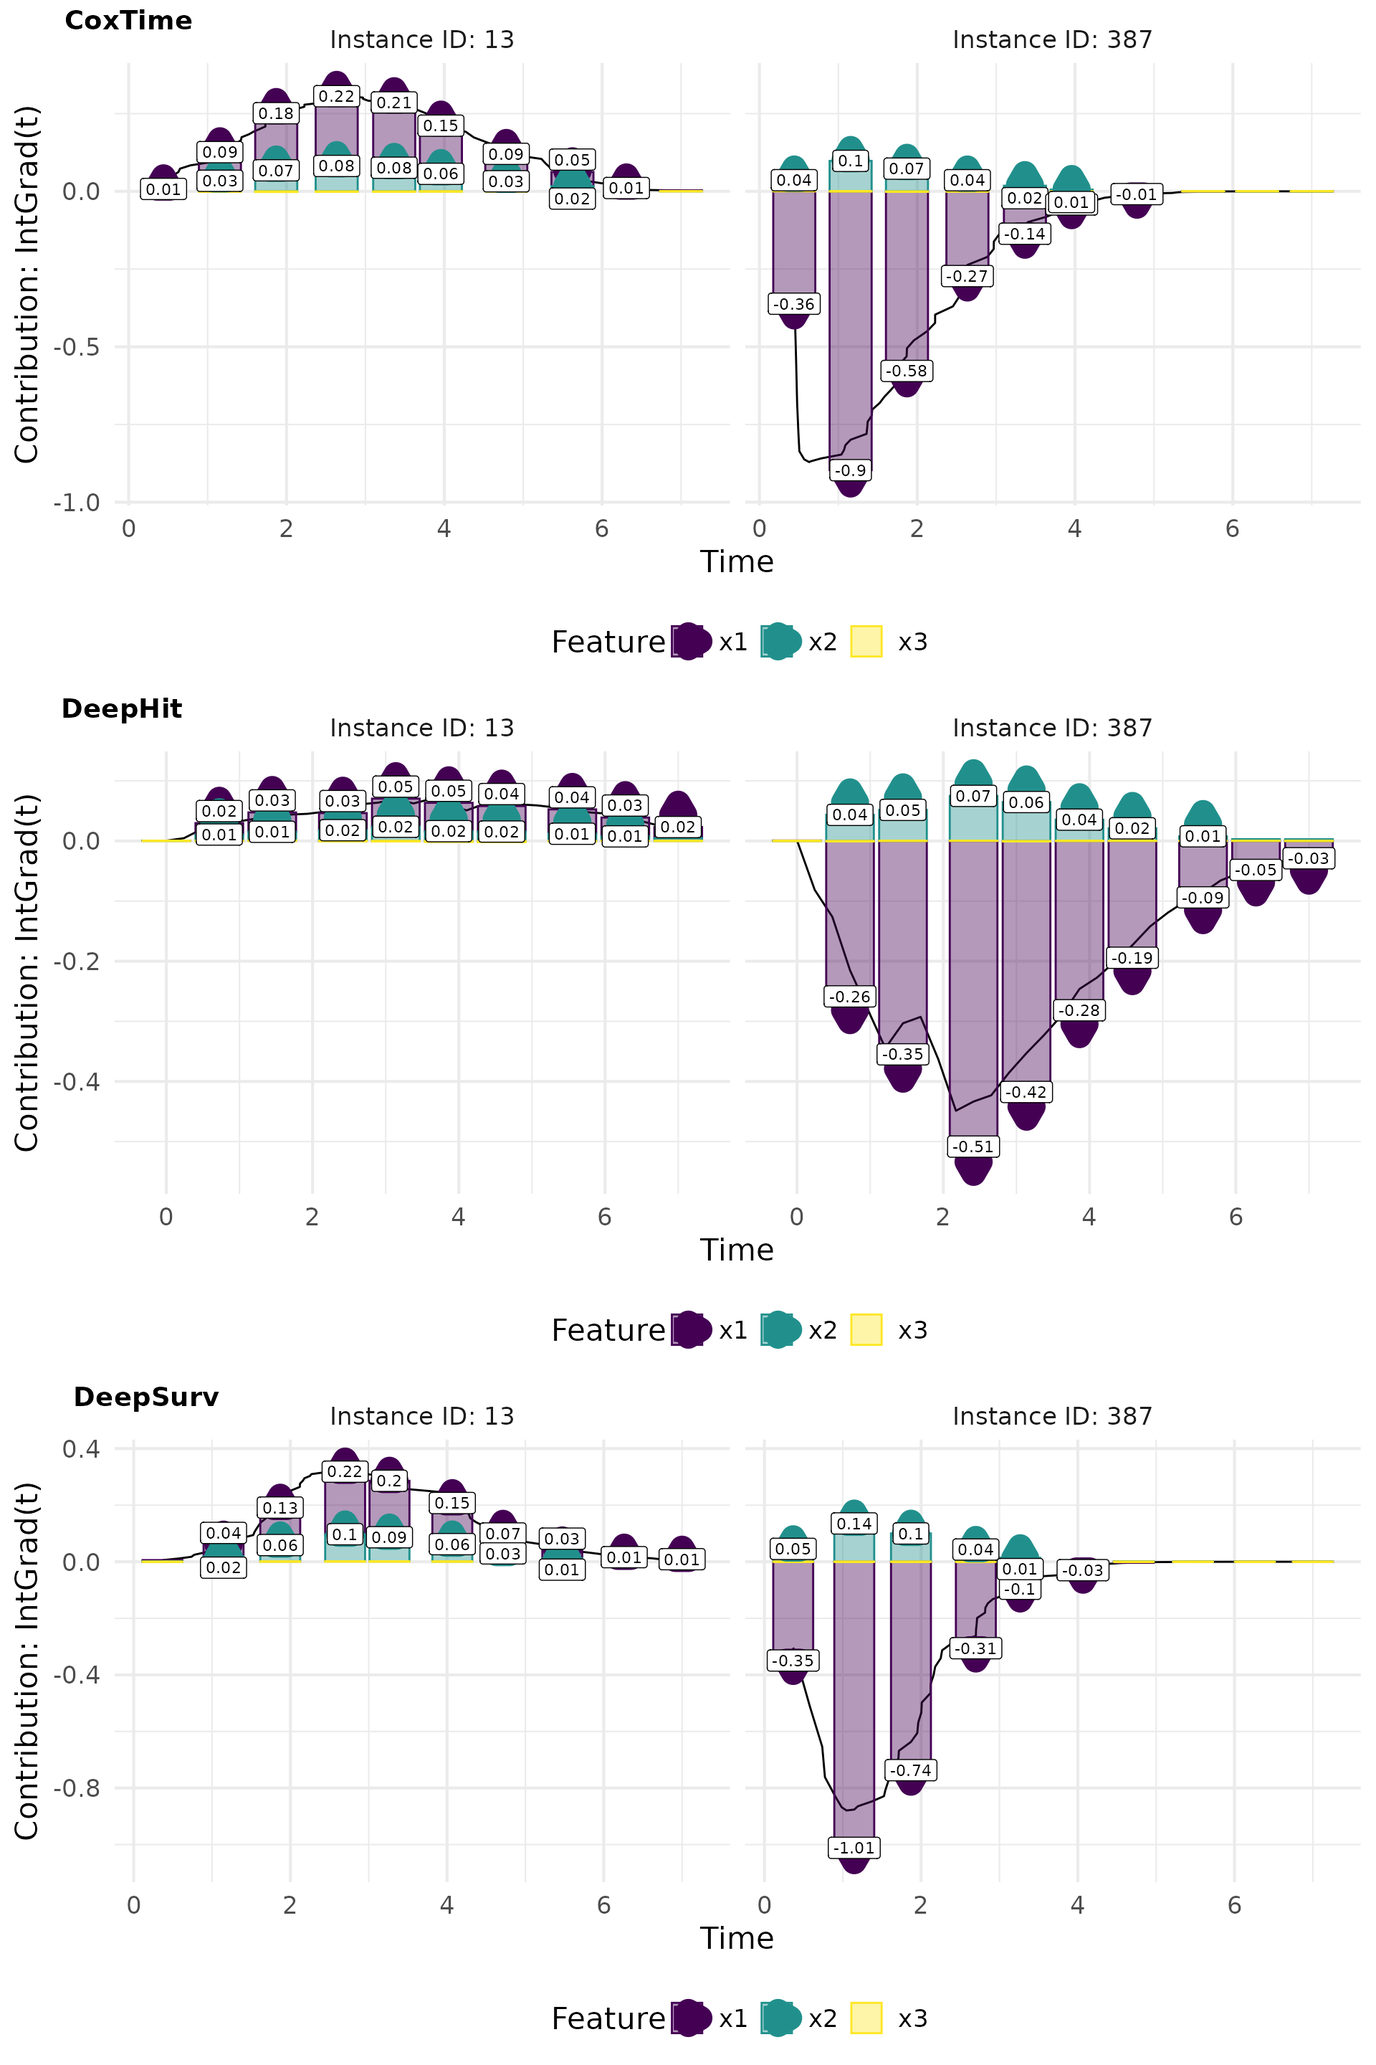
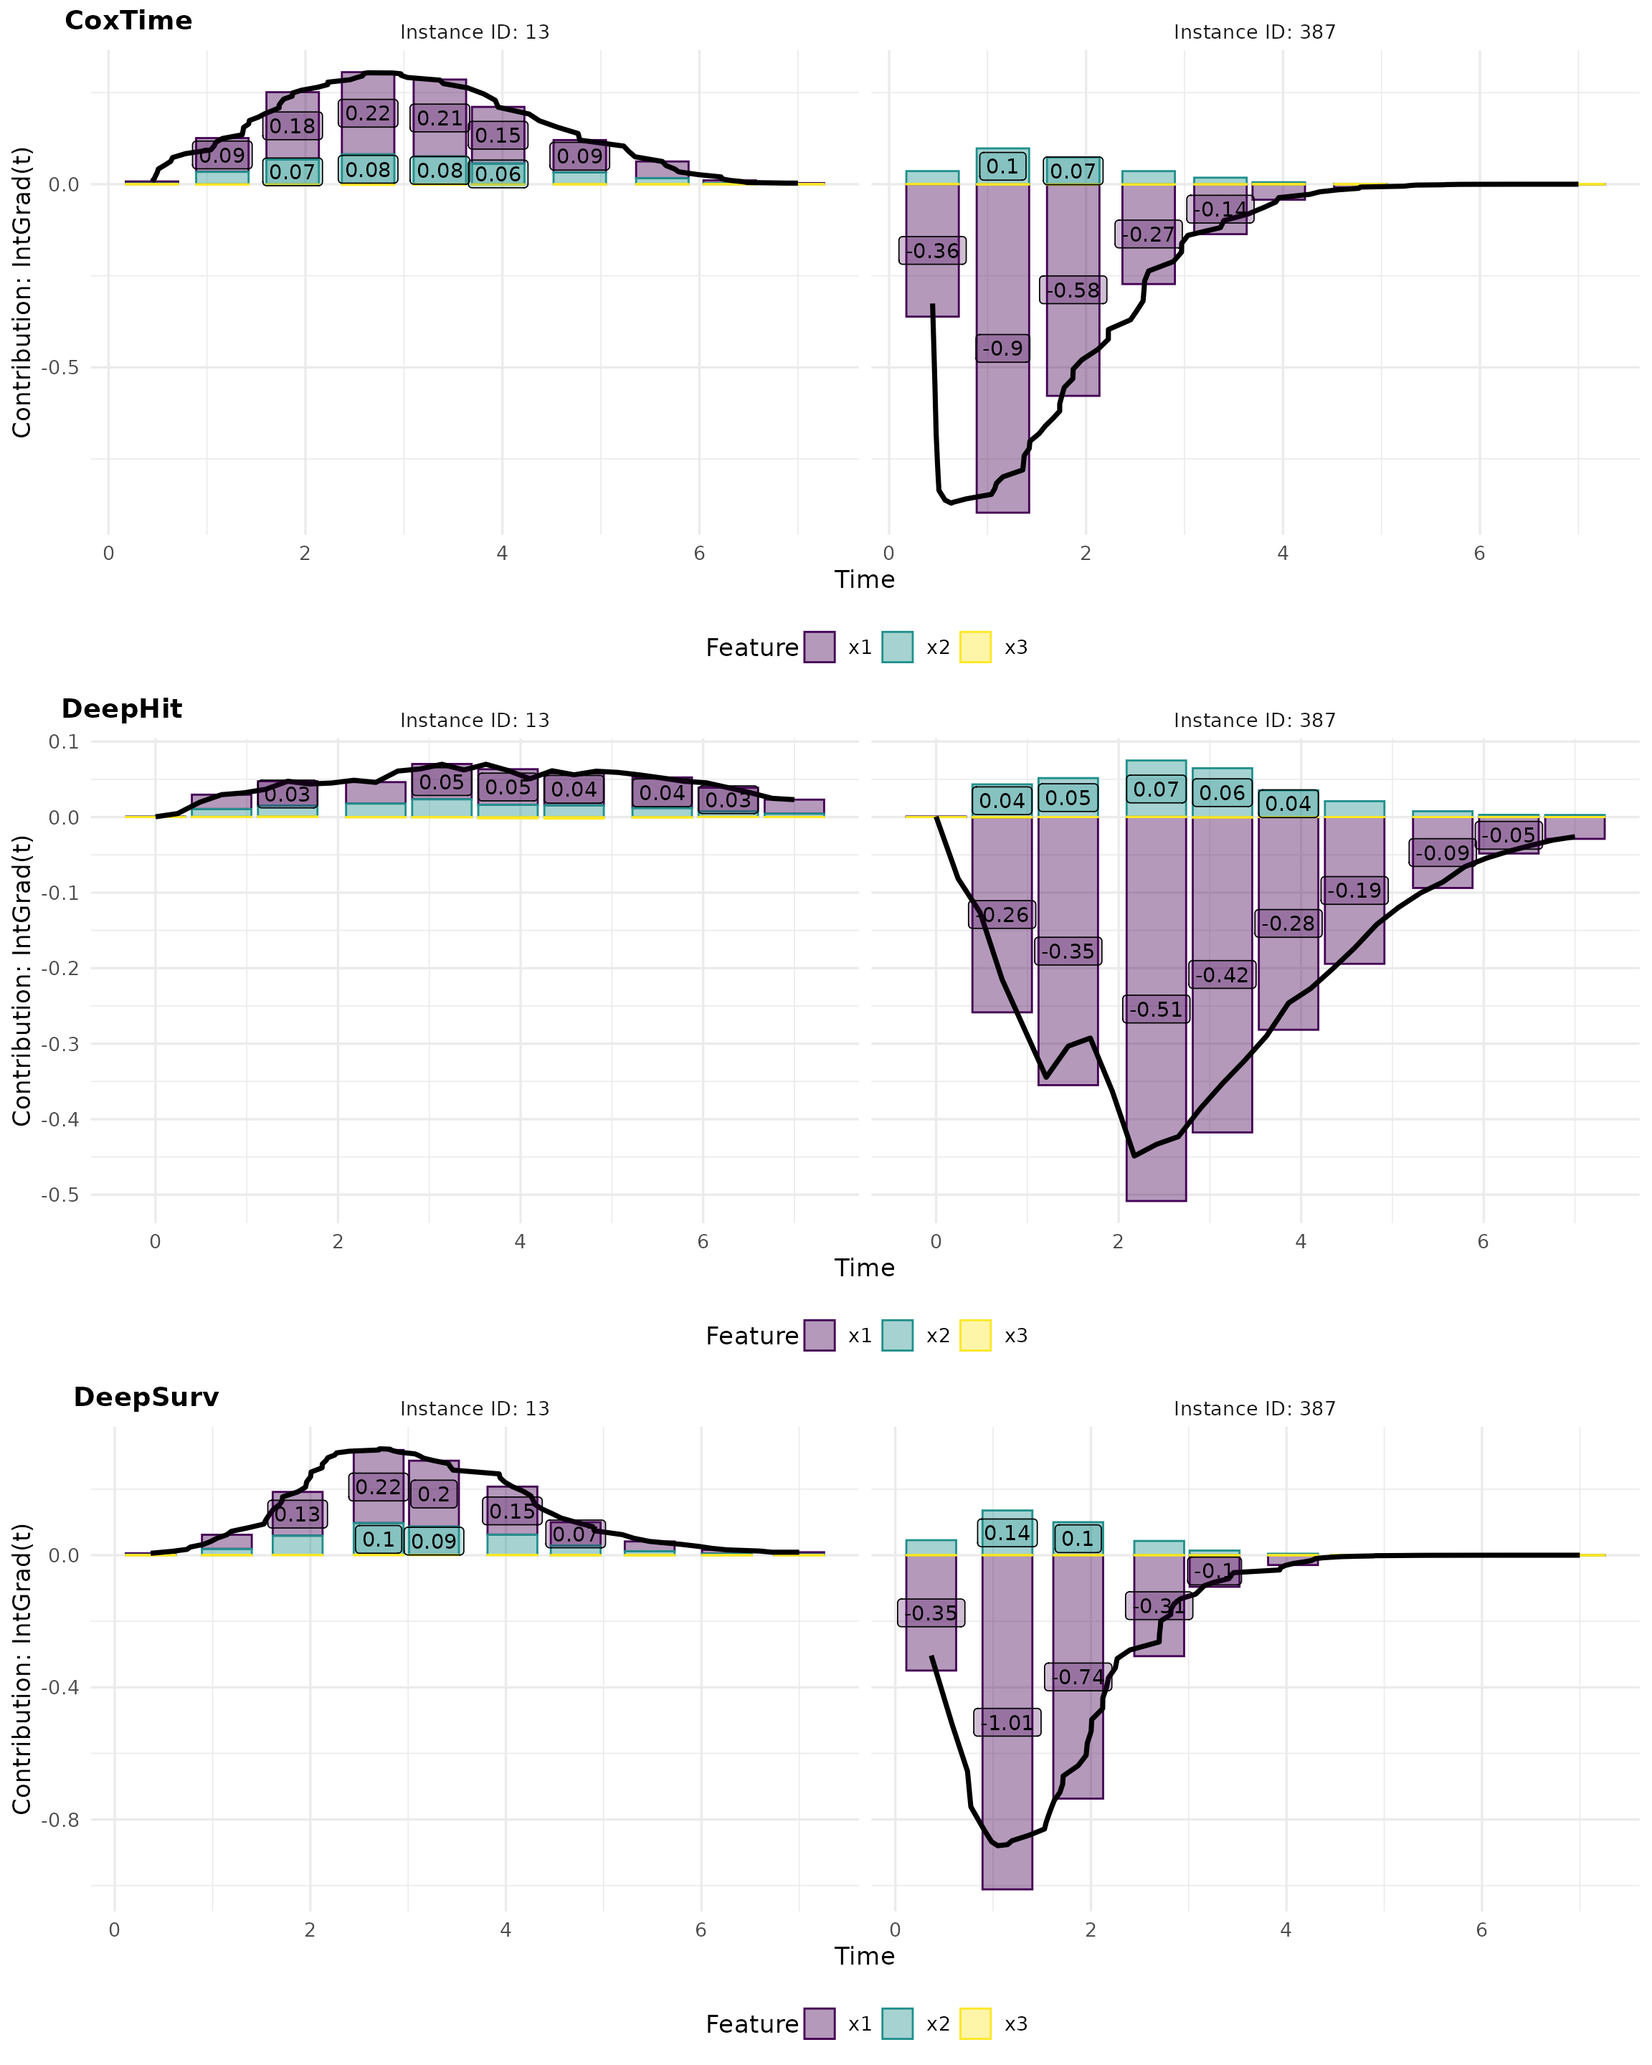
Deploying to gh-pages from @ bips-hb/Survinng@87acbd6456c3aeec614d8811c0f04a3fbe51c15c 🚀

diff --git a/articles/Sim_time_dependent.html b/articles/Sim_time_dependent.html
@@ -378,9 +378,9 @@ survival times.</p>
 <div class="sourceCode" id="cb11"><pre class="downlit sourceCode r">
 <code class="sourceCode R"><span><span class="co"># Plot force</span></span>
 <span><span class="va">intgrad0_plot_force</span> <span class="op">&lt;-</span> <span class="fu">cowplot</span><span class="fu">::</span><span class="fu"><a href="https://wilkelab.org/cowplot/reference/plot_grid.html" class="external-link">plot_grid</a></span><span class="op">(</span></span>
-<span>  <span class="fu"><a href="../reference/plot.surv_result.html">plot_force</a></span><span class="op">(</span><span class="va">ig0_cox</span>, zero_feature <span class="op">=</span> <span class="st">"x4"</span>, upper_distance <span class="op">=</span> <span class="fl">0</span>, lower_distance <span class="op">=</span> <span class="fl">0</span>, lower_distance_x1 <span class="op">=</span> <span class="fl">0.05</span>, intgrad0_td_cox <span class="op">=</span> <span class="cn">TRUE</span>, label <span class="op">=</span> <span class="st">"IntGrad(t)"</span><span class="op">)</span>, </span>
-<span>  <span class="fu"><a href="../reference/plot.surv_result.html">plot_force</a></span><span class="op">(</span><span class="va">ig0_deephit</span>, zero_feature <span class="op">=</span> <span class="st">"x4"</span>, upper_distance <span class="op">=</span> <span class="fl">0</span>, lower_distance <span class="op">=</span> <span class="fl">0</span>, lower_distance_x1 <span class="op">=</span> <span class="fl">0.02</span>, label <span class="op">=</span> <span class="st">"IntGrad(t)"</span><span class="op">)</span>,  </span>
-<span>  <span class="fu"><a href="../reference/plot.surv_result.html">plot_force</a></span><span class="op">(</span><span class="va">ig0_deepsurv</span>, zero_feature <span class="op">=</span> <span class="st">"x4"</span>, upper_distance <span class="op">=</span> <span class="fl">0</span>, lower_distance <span class="op">=</span> <span class="fl">0</span>, intgrad0_td_deepsurv <span class="op">=</span> <span class="cn">TRUE</span>, label <span class="op">=</span> <span class="st">"IntGrad(t)"</span><span class="op">)</span>, </span>
+<span>  <span class="fu"><a href="https://rdrr.io/r/graphics/plot.default.html" class="external-link">plot</a></span><span class="op">(</span><span class="va">ig0_cox</span>, type <span class="op">=</span> <span class="st">"force"</span><span class="op">)</span>,</span>
+<span>  <span class="fu"><a href="https://rdrr.io/r/graphics/plot.default.html" class="external-link">plot</a></span><span class="op">(</span><span class="va">ig0_deephit</span>, type <span class="op">=</span> <span class="st">"force"</span><span class="op">)</span>,</span>
+<span>  <span class="fu"><a href="https://rdrr.io/r/graphics/plot.default.html" class="external-link">plot</a></span><span class="op">(</span><span class="va">ig0_deepsurv</span>, type <span class="op">=</span> <span class="st">"force"</span><span class="op">)</span>,</span>
 <span>  nrow <span class="op">=</span> <span class="fl">3</span>, labels <span class="op">=</span> <span class="fu"><a href="https://rdrr.io/r/base/c.html" class="external-link">c</a></span><span class="op">(</span><span class="st">"CoxTime"</span>, <span class="st">"DeepHit"</span>, <span class="st">"DeepSurv"</span><span class="op">)</span><span class="op">)</span></span>
 <span><span class="va">intgrad0_plot_force</span></span></code></pre></div>
 <p><img src="Sim_time_dependent_files/figure-html/td%20intgrad0%20force-1.png" width="100%" style="display: block; margin: auto;"></p>
@@ -428,9 +428,9 @@ effects.</p>
 <div class="sourceCode" id="cb15"><pre class="downlit sourceCode r">
 <code class="sourceCode R"><span><span class="co"># Plot force</span></span>
 <span><span class="va">gshap_plot_force</span> <span class="op">&lt;-</span> <span class="fu">cowplot</span><span class="fu">::</span><span class="fu"><a href="https://wilkelab.org/cowplot/reference/plot_grid.html" class="external-link">plot_grid</a></span><span class="op">(</span></span>
-<span>  <span class="fu"><a href="../reference/plot.surv_result.html">plot_force</a></span><span class="op">(</span><span class="va">gshap_cox</span>, upper_distance <span class="op">=</span> <span class="fl">0</span>, lower_distance <span class="op">=</span> <span class="fl">0</span>, zero_feature <span class="op">=</span> <span class="st">"x4"</span>, gradshap_td_cox <span class="op">=</span> <span class="cn">TRUE</span>, label <span class="op">=</span> <span class="st">"GradSHAP(t)"</span><span class="op">)</span>, </span>
-<span>  <span class="fu"><a href="../reference/plot.surv_result.html">plot_force</a></span><span class="op">(</span><span class="va">gshap_deephit</span>, upper_distance <span class="op">=</span> <span class="fl">0</span>, lower_distance <span class="op">=</span> <span class="fl">0</span>, zero_feature <span class="op">=</span> <span class="st">"x4"</span>, gradshap_td_deephit <span class="op">=</span> <span class="cn">TRUE</span>, label <span class="op">=</span> <span class="st">"GradSHAP(t)"</span><span class="op">)</span>, </span>
-<span>  <span class="fu"><a href="../reference/plot.surv_result.html">plot_force</a></span><span class="op">(</span><span class="va">gshap_deepsurv</span>, upper_distance <span class="op">=</span> <span class="fl">0</span>, lower_distance <span class="op">=</span> <span class="fl">0</span>, zero_feature <span class="op">=</span> <span class="st">"x4"</span>, gradshap_td_deepsurv <span class="op">=</span> <span class="cn">TRUE</span>, label <span class="op">=</span> <span class="st">"GradSHAP(t)"</span><span class="op">)</span>,</span>
+<span>  <span class="fu"><a href="https://rdrr.io/r/graphics/plot.default.html" class="external-link">plot</a></span><span class="op">(</span><span class="va">gshap_cox</span>, type <span class="op">=</span> <span class="st">"force"</span><span class="op">)</span>,</span>
+<span>  <span class="fu"><a href="https://rdrr.io/r/graphics/plot.default.html" class="external-link">plot</a></span><span class="op">(</span><span class="va">gshap_deephit</span>, type <span class="op">=</span> <span class="st">"force"</span><span class="op">)</span>,</span>
+<span>  <span class="fu"><a href="https://rdrr.io/r/graphics/plot.default.html" class="external-link">plot</a></span><span class="op">(</span><span class="va">gshap_deepsurv</span>, type <span class="op">=</span> <span class="st">"force"</span><span class="op">)</span>,</span>
 <span>  nrow <span class="op">=</span> <span class="fl">3</span>, labels <span class="op">=</span> <span class="fu"><a href="https://rdrr.io/r/base/c.html" class="external-link">c</a></span><span class="op">(</span><span class="st">"CoxTime"</span>, <span class="st">"DeepHit"</span>, <span class="st">"DeepSurv"</span><span class="op">)</span><span class="op">)</span></span>
 <span><span class="va">gshap_plot_force</span></span></code></pre></div>
 <p><img src="Sim_time_dependent_files/figure-html/td%20gradshap%20force-1.png" width="100%" style="display: block; margin: auto;"></p>

diff --git a/articles/Sim_time_independent.html b/articles/Sim_time_independent.html
@@ -378,9 +378,9 @@ survival times.</p>
 <div class="sourceCode" id="cb13"><pre class="downlit sourceCode r">
 <code class="sourceCode R"><span><span class="co"># Plot force</span></span>
 <span><span class="va">intgrad0_plot_force</span> <span class="op">&lt;-</span> <span class="fu">cowplot</span><span class="fu">::</span><span class="fu"><a href="https://wilkelab.org/cowplot/reference/plot_grid.html" class="external-link">plot_grid</a></span><span class="op">(</span></span>
-<span>  <span class="fu"><a href="../reference/plot.surv_result.html">plot_force</a></span><span class="op">(</span><span class="va">ig0_cox</span>, upper_distance <span class="op">=</span> <span class="fl">0.04</span>, lower_distance <span class="op">=</span> <span class="fl">0.04</span>, label <span class="op">=</span> <span class="st">"IntGrad(t)"</span><span class="op">)</span>, </span>
-<span>  <span class="fu"><a href="../reference/plot.surv_result.html">plot_force</a></span><span class="op">(</span><span class="va">ig0_deephit</span>, upper_distance <span class="op">=</span> <span class="fl">0.02</span>, lower_distance <span class="op">=</span> <span class="fl">0</span>, label <span class="op">=</span> <span class="st">"IntGrad(t)"</span><span class="op">)</span>, </span>
-<span>  <span class="fu"><a href="../reference/plot.surv_result.html">plot_force</a></span><span class="op">(</span><span class="va">ig0_deepsurv</span>, upper_distance <span class="op">=</span> <span class="fl">0.04</span>, lower_distance <span class="op">=</span> <span class="fl">0.04</span>, label <span class="op">=</span> <span class="st">"IntGrad(t)"</span><span class="op">)</span>,</span>
+<span>  <span class="fu"><a href="https://rdrr.io/r/graphics/plot.default.html" class="external-link">plot</a></span><span class="op">(</span><span class="va">ig0_cox</span>, type <span class="op">=</span> <span class="st">"force"</span><span class="op">)</span>,</span>
+<span>  <span class="fu"><a href="https://rdrr.io/r/graphics/plot.default.html" class="external-link">plot</a></span><span class="op">(</span><span class="va">ig0_deephit</span>, type <span class="op">=</span> <span class="st">"force"</span><span class="op">)</span>,</span>
+<span>  <span class="fu"><a href="https://rdrr.io/r/graphics/plot.default.html" class="external-link">plot</a></span><span class="op">(</span><span class="va">ig0_deepsurv</span>, type <span class="op">=</span> <span class="st">"force"</span><span class="op">)</span>,</span>
 <span>  nrow <span class="op">=</span> <span class="fl">3</span>, labels <span class="op">=</span> <span class="fu"><a href="https://rdrr.io/r/base/c.html" class="external-link">c</a></span><span class="op">(</span><span class="st">"CoxTime"</span>, <span class="st">"DeepHit"</span>, <span class="st">"DeepSurv"</span><span class="op">)</span><span class="op">)</span></span>
 <span><span class="va">intgrad0_plot_force</span></span></code></pre></div>
 <p><img src="Sim_time_independent_files/figure-html/tid%20intgrad0%20force-1.png" width="100%" style="display: block; margin: auto;"></p>
@@ -428,9 +428,9 @@ effects.</p>
 <div class="sourceCode" id="cb17"><pre class="downlit sourceCode r">
 <code class="sourceCode R"><span><span class="co"># Plot force</span></span>
 <span><span class="va">gshap_plot_force</span> <span class="op">&lt;-</span> <span class="fu">cowplot</span><span class="fu">::</span><span class="fu"><a href="https://wilkelab.org/cowplot/reference/plot_grid.html" class="external-link">plot_grid</a></span><span class="op">(</span></span>
-<span>  <span class="fu"><a href="../reference/plot.surv_result.html">plot_force</a></span><span class="op">(</span><span class="va">gshap_cox</span>, upper_distance <span class="op">=</span> <span class="fl">0</span>, lower_distance <span class="op">=</span> <span class="fl">0</span>, lower_distance_x1 <span class="op">=</span> <span class="fl">0.05</span>, label <span class="op">=</span> <span class="st">"GradSHAP(t)"</span><span class="op">)</span>, </span>
-<span>  <span class="fu"><a href="../reference/plot.surv_result.html">plot_force</a></span><span class="op">(</span><span class="va">gshap_deephit</span>, upper_distance <span class="op">=</span> <span class="fl">0</span>, lower_distance <span class="op">=</span> <span class="fl">0</span>, lower_distance_x1 <span class="op">=</span> <span class="fl">0.02</span>, label <span class="op">=</span> <span class="st">"GradSHAP(t)"</span><span class="op">)</span>, </span>
-<span>  <span class="fu"><a href="../reference/plot.surv_result.html">plot_force</a></span><span class="op">(</span><span class="va">gshap_deepsurv</span>, upper_distance <span class="op">=</span> <span class="fl">0</span>, lower_distance <span class="op">=</span> <span class="fl">0</span>, lower_distance_x1 <span class="op">=</span> <span class="fl">0.04</span>, label <span class="op">=</span> <span class="st">"GradSHAP(t)"</span><span class="op">)</span>,</span>
+<span>  <span class="fu"><a href="https://rdrr.io/r/graphics/plot.default.html" class="external-link">plot</a></span><span class="op">(</span><span class="va">gshap_cox</span>, type <span class="op">=</span> <span class="st">"force"</span><span class="op">)</span>, </span>
+<span>  <span class="fu"><a href="https://rdrr.io/r/graphics/plot.default.html" class="external-link">plot</a></span><span class="op">(</span><span class="va">gshap_deephit</span>, type <span class="op">=</span> <span class="st">"force"</span><span class="op">)</span>,</span>
+<span>  <span class="fu"><a href="https://rdrr.io/r/graphics/plot.default.html" class="external-link">plot</a></span><span class="op">(</span><span class="va">gshap_deepsurv</span>, type <span class="op">=</span> <span class="st">"force"</span><span class="op">)</span>,</span>
 <span>  nrow <span class="op">=</span> <span class="fl">3</span>, labels <span class="op">=</span> <span class="fu"><a href="https://rdrr.io/r/base/c.html" class="external-link">c</a></span><span class="op">(</span><span class="st">"CoxTime"</span>, <span class="st">"DeepHit"</span>, <span class="st">"DeepSurv"</span><span class="op">)</span><span class="op">)</span></span>
 <span><span class="va">gshap_plot_force</span></span></code></pre></div>
 <p><img src="Sim_time_independent_files/figure-html/tid%20gradshap%20force-1.png" width="100%" style="display: block; margin: auto;"></p>

diff --git a/reference/plot.surv_result.html b/reference/plot.surv_result.html
@@ -54,7 +54,7 @@ specifically for GradSHAP(t) and IntGrad(t) methods.</p>
     <div class="sourceCode"><pre class="sourceCode r"><code><span><span class="co"># S3 method for class 'surv_result'</span></span>
 <span><span class="fu"><a href="https://rdrr.io/r/graphics/plot.default.html" class="external-link">plot</a></span><span class="op">(</span><span class="va">x</span>, <span class="va">...</span>, type <span class="op">=</span> <span class="st">"attr"</span><span class="op">)</span></span>
 <span></span>
-<span><span class="fu">plot_force</span><span class="op">(</span><span class="va">x</span>, <span class="va">...</span><span class="op">)</span></span>
+<span><span class="fu">plot_force</span><span class="op">(</span><span class="va">x</span>, num_bars <span class="op">=</span> <span class="fl">10</span><span class="op">)</span></span>
 <span></span>
 <span><span class="fu">plot_pred</span><span class="op">(</span><span class="va">x</span><span class="op">)</span></span>
 <span></span>
@@ -82,6 +82,10 @@ results.</p></dd>
 <li><p><code>"contr"</code>: plot feature contributions percentages over time</p></li>
 <li><p><code>"force"</code>: plot force plots for each instance</p></li>
 </ul></dd>
+
+
+<dt id="arg-num-bars">num_bars<a class="anchor" aria-label="anchor" href="#arg-num-bars"></a></dt>
+<dd><p>Number of bars to show in the force plot. Default is 10.</p></dd>
 
 
 <dt id="arg-normalize">normalize<a class="anchor" aria-label="anchor" href="#arg-normalize"></a></dt>

diff --git a/index.html b/index.html
@@ -155,6 +155,8 @@
 <h2 id="id_-other-examples-and-articles">🖥 Other Examples and Articles<a class="anchor" aria-label="anchor" href="#id_-other-examples-and-articles"></a>
 </h2>
 <ul>
+<li>How to load my model? <a href="https://bips-hb.github.io/Survinng/articles/how_to_load_model.html">→ article</a>
+</li>
 <li>Simulation: Time-independent effects (<code>survivalmodels</code>) <a href="https://bips-hb.github.io/Survinng/articles/Sim_time_independent.html">→ article</a>
 </li>
 <li>Simulation: Time-dependent effects (<code>survivalmodels</code>) <a href="https://bips-hb.github.io/Survinng/articles/Sim_time_dependent.html">→ article</a>
